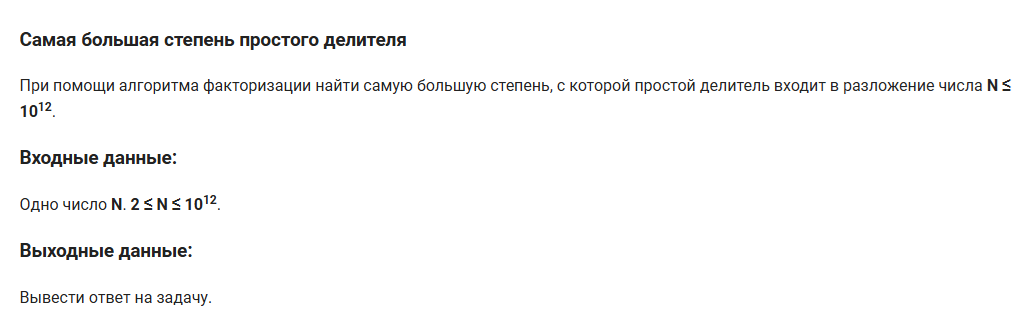
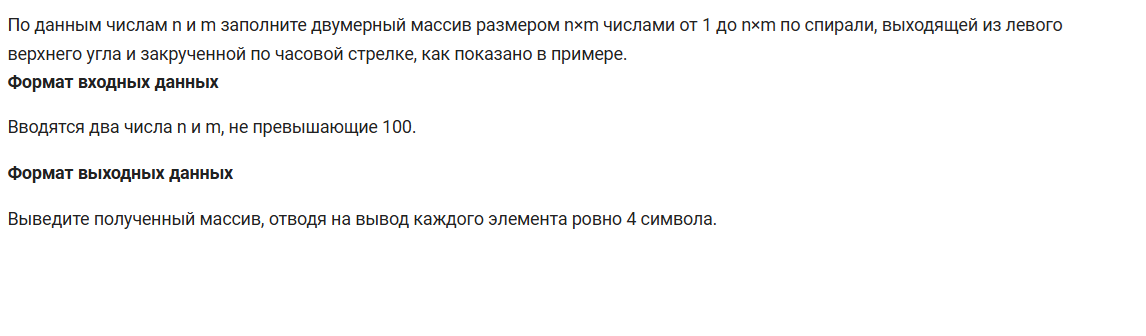
solve: add python implementation and requirements
Матрица Спираль

diff --git a/task001.cpp b/task001.cpp
@@ -1,0 +1,48 @@
+//
+// Created by GLEB on 03.11.2026.
+//
+#include <iostream>
+#include <vector>
+#include <iomanip>
+#include <algorithm>
+
+int main() {
+    int n,m;
+    std::cin >> n >> m;
+    std::vector<std::vector<int>> matrix(n, std::vector<int>(m));
+    int up,down,left,right;
+    up = 0;
+    down = n-1;
+    left = 0;
+    right = m-1;
+    int sk=1;
+    while (sk<=n*m) {
+        for (int l = left; l<=right; l++) {
+            matrix[up][l] = sk; sk++;
+        }
+        up++;
+        for (int d = up; d<=down; d++) {
+            matrix[d][right] = sk; sk++;
+        }
+        right--;
+        if (up <=down) {
+            for (int r = right; r>=left; r--) {
+                matrix[down][r] = sk; sk++;
+            }
+            down--;
+        }
+        if (left <= right) {
+            for (int u = down; u>=up; u--) {
+                matrix[u][left] = sk; sk++;
+            }
+            left++;
+        }
+    }
+    for (int i = 0; i < n; i++) {
+        for (int j = 0; j < m; j++) {
+            std::cout << std::setw(4)<< matrix[i][j];
+        }
+        std::cout << std::endl;
+    }
+
+}
